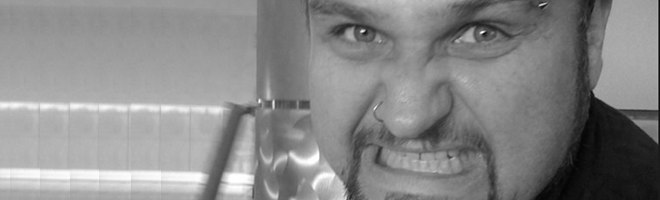
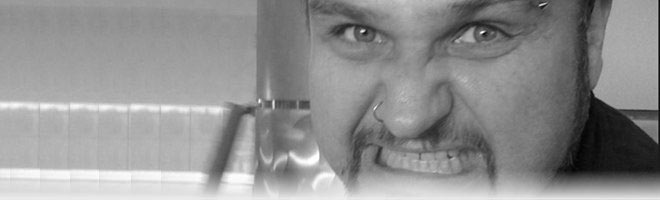
Add the gradient to Stevens image & implement data uri fallbacks for IE.

Changed region(s): [[0.0, 0.87, 1.0, 1.0]]

diff --git a/app/assets/stylesheets/application.css.sass b/app/assets/stylesheets/application.css.sass
@@ -1,6 +1,21 @@
+// Compass imports
 @import compass
 @import compass/reset
 
+// Mixins
+@mixin hide
+  left: -9999px
+  position: absolute
+
+@mixin data-uri-bg($image, $properties: false)
+  @if $properties != false
+    background: inline-image($image) $properties
+    *background: url($image) $properties
+  @else
+    background: inline-image($image)
+    *background: url($image)G
+
+// Styling
 body
   background-color: #222
   font-size: 14px
@@ -113,12 +128,10 @@ form
   margin: 25px auto
 
   h1 a
-    background-image: inline-image('logo.png')
-    text-indent: -9999px
     height: 94px
     display: block
-    background-position: center
-    background-repeat: no-repeat
+    @include hide-text
+    @include data-uri-bg("logo.png", center no-repeat)
 
   @media screen and (max-width: 460px)
     font-size: 10px
@@ -168,7 +181,7 @@ form
 
 
 #container
-  background-color: #eee
+  background: #eee
   padding: 0px 20px 20px 20px
   margin: 0 auto
   @include border-radius(2px)
@@ -210,11 +223,10 @@ form
           height: 100px
 
         fieldset
-          background-image: inline-image('happyface.png'), inline-image('sadface.png')
-          background-position: right, left
-          background-repeat: no-repeat
           padding: 0 20px
           display: inline-block
+          background: inline-image("happyface.png") right no-repeat, inline-image("sadface.png") left no-repeat
+          *background: asset_url("happyface.png", image) right no-repeat, asset_url("sadface.png", image) left no-repeat
 
         input[type="submit"]
           margin: 0
@@ -243,19 +255,16 @@ form
       margin: 20px 0
 
     .gold
-      background-image: inline-image('gold.png')
+      @include data-uri-bg("gold.png", no-repeat)
 
     .silver
-      background-image: inline-image('silver.png')
+      @include data-uri-bg("silver.png", no-repeat)
 
     .bronze
-      background-image: inline-image('bronze.png')
+      @include data-uri-bg("bronze.png", no-repeat)
 
 #container.home
-  background-image: inline-image('gradient.png'), inline-image('steven.jpg')
-  background-position: left 170px, right top
-  background-repeat: repeat-x, no-repeat
-  background-size: auto 30px, auto auto
+  @include data-uri-bg("steven.jpg", #eee no-repeat)
 
   #menu
     height: 130px
@@ -375,7 +384,7 @@ form ul
     height: 20px
     position: absolute
     width: 100%
-    background-image: inline-image('gradient.png')
+    @include data-uri-bg("gradient.png", no-repeat)
 
     span
       display: none
@@ -420,11 +429,11 @@ strong
       padding-left: 5px
 
     a
-      background-image: inline-image('6sync.png')
-      text-indent: -9999px
       height: 28px
       width: 73px
       display: block
+      @include hide-text
+      @include data-uri-bg("6sync.png", no-repeat)
 
   .right
     width: 50%
